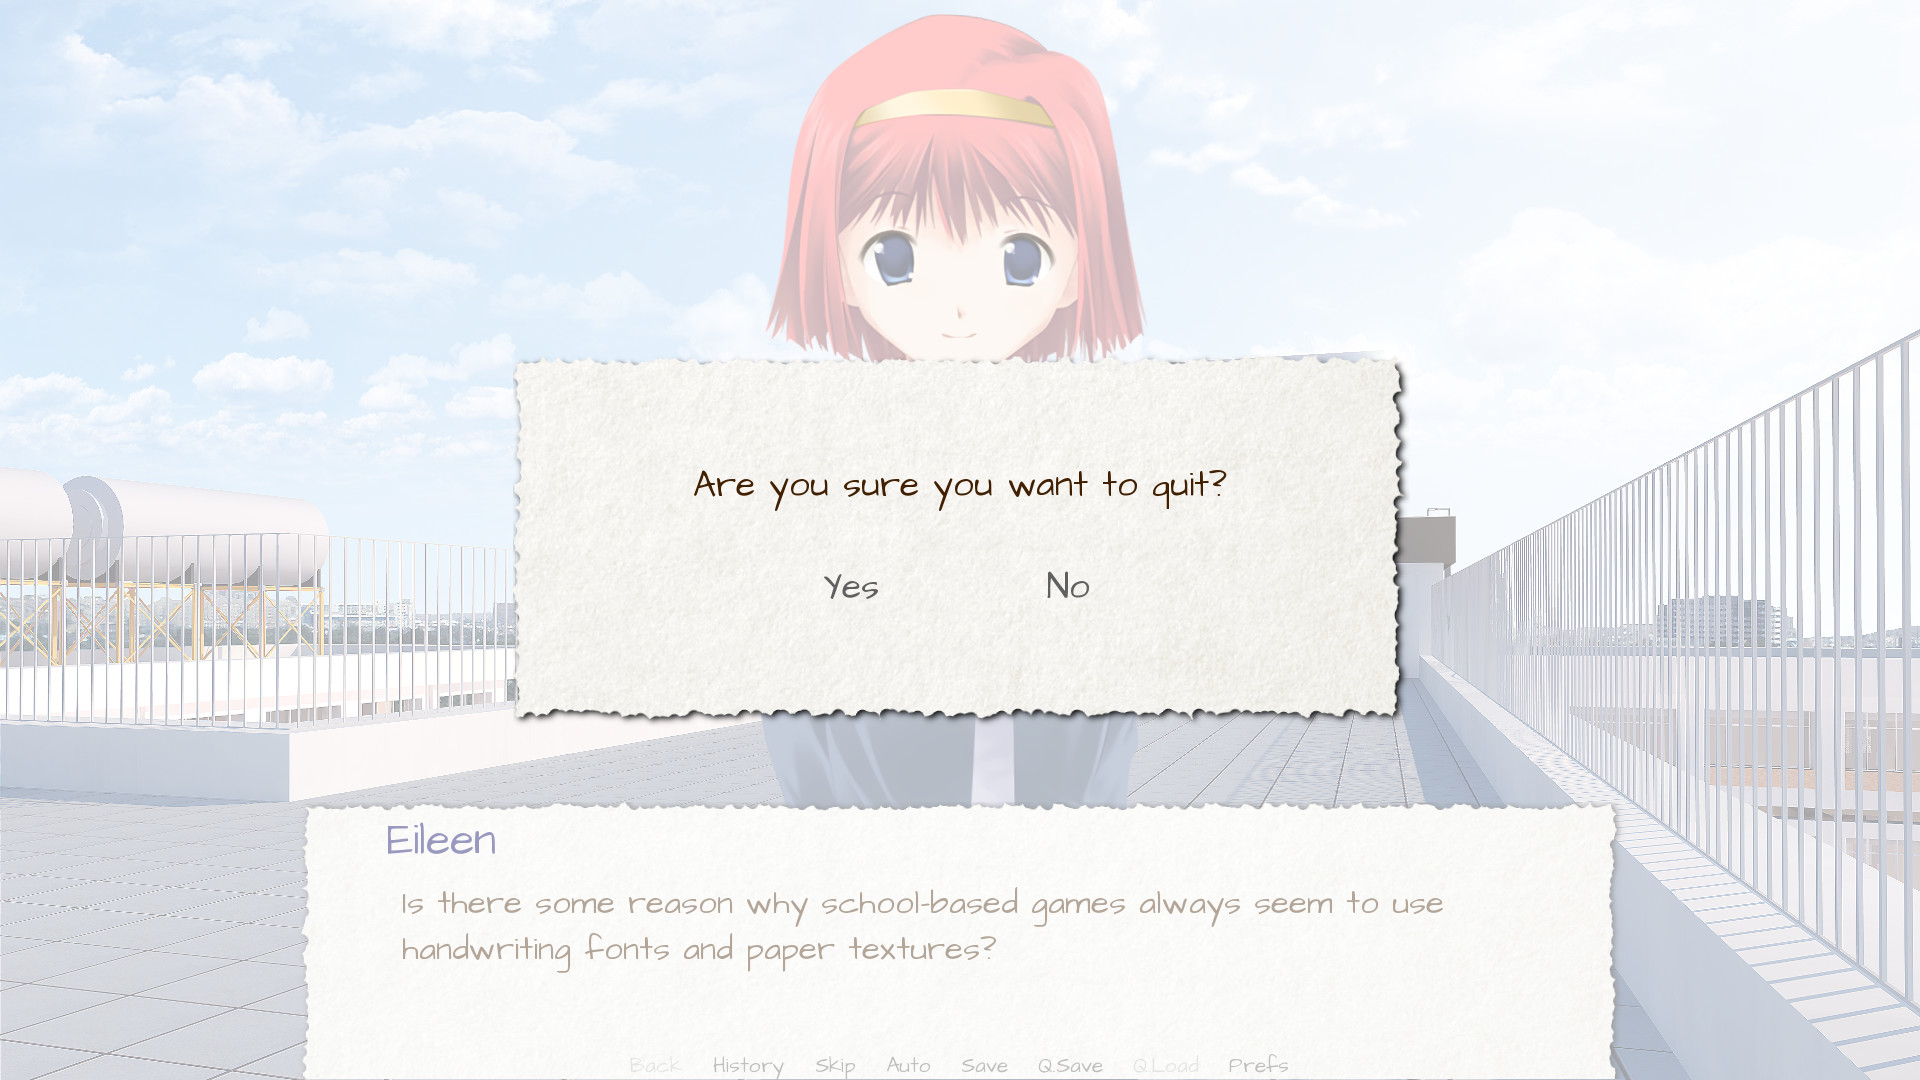
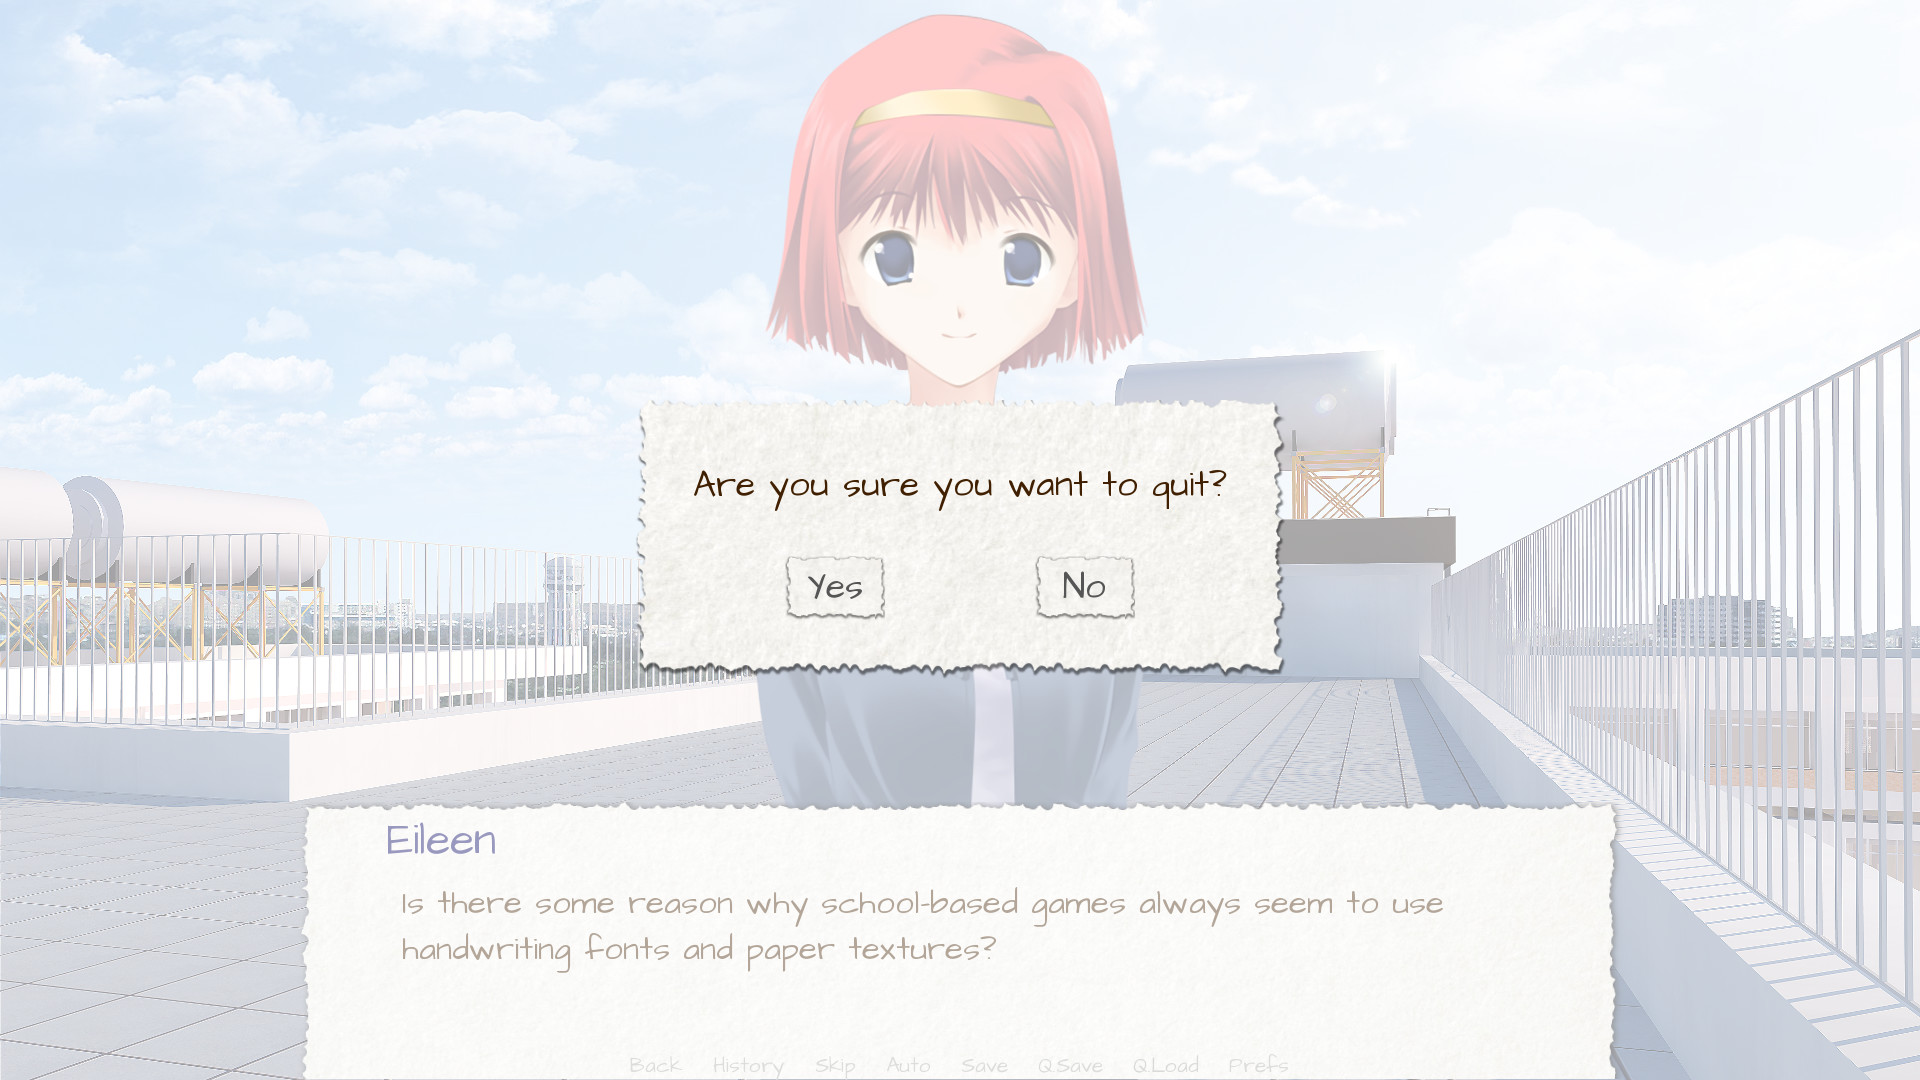
gui: Modernize the frame styles.

diff --git a/sphinx/source/gui.rst b/sphinx/source/gui.rst
@@ -448,18 +448,27 @@ background image file:
 gui/frame.png
     The image used as the background of frames windows.
 
-And the second is by customizing the borders:
+And the second is by customizing variables.
 
-.. var:: gui.frame_borders = Borders(40, 40, 40, 40)
+.. var:: gui.frame_borders = Borders(15, 15, 15, 15)
 
     The borders applied to frame windows.
+
+.. var:: gui.confirm_frame_borders = Borders(60, 60, 60, 60)
+
+    The borders applied to the fame used in the confirm screen.
+
+.. var:: gui.frame_tile
+
+    If true, the sides and center of the confirm screen are tiled. If false,
+    they are scaled.
 
 .. ifconfig:: renpy_figures
 
     .. figure:: oshs/game/gui/frame.png
         :width: 100%
 
-        An example gui/overlay/game_menu.png image.
+        An example gui/frame.png image.
 
     .. figure:: gui/frame_confirm.jpg
         :width: 100%
